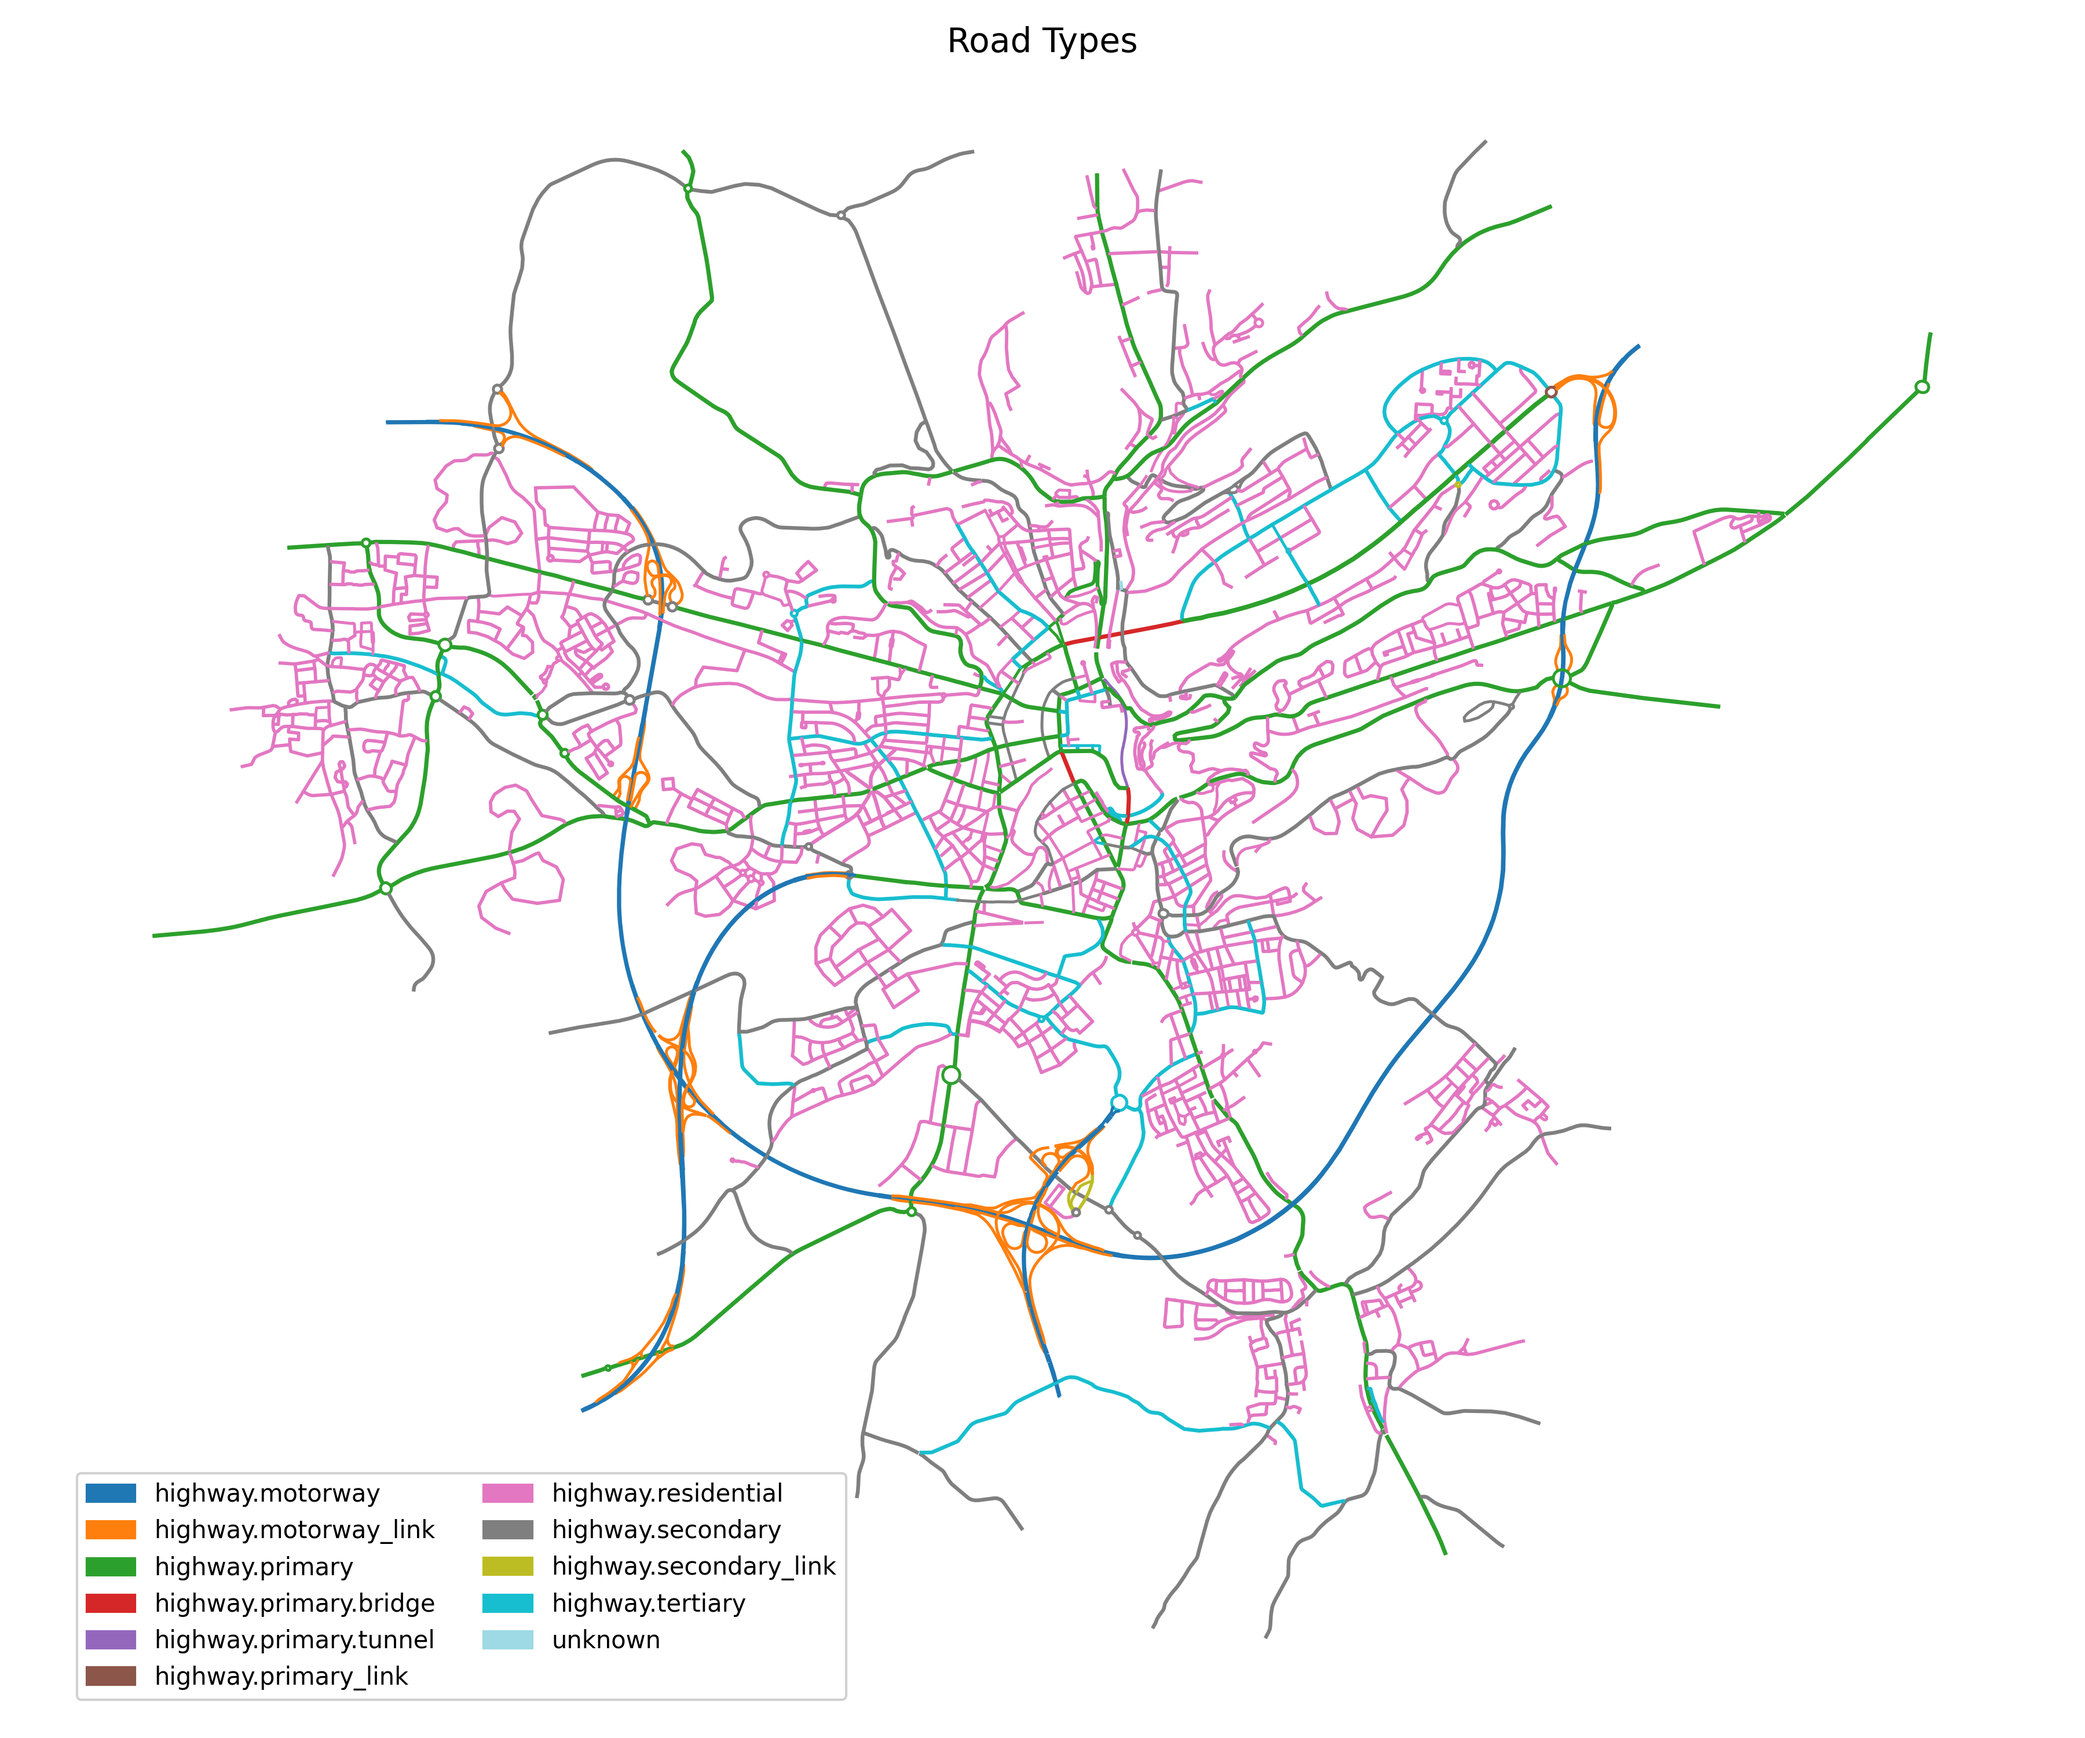
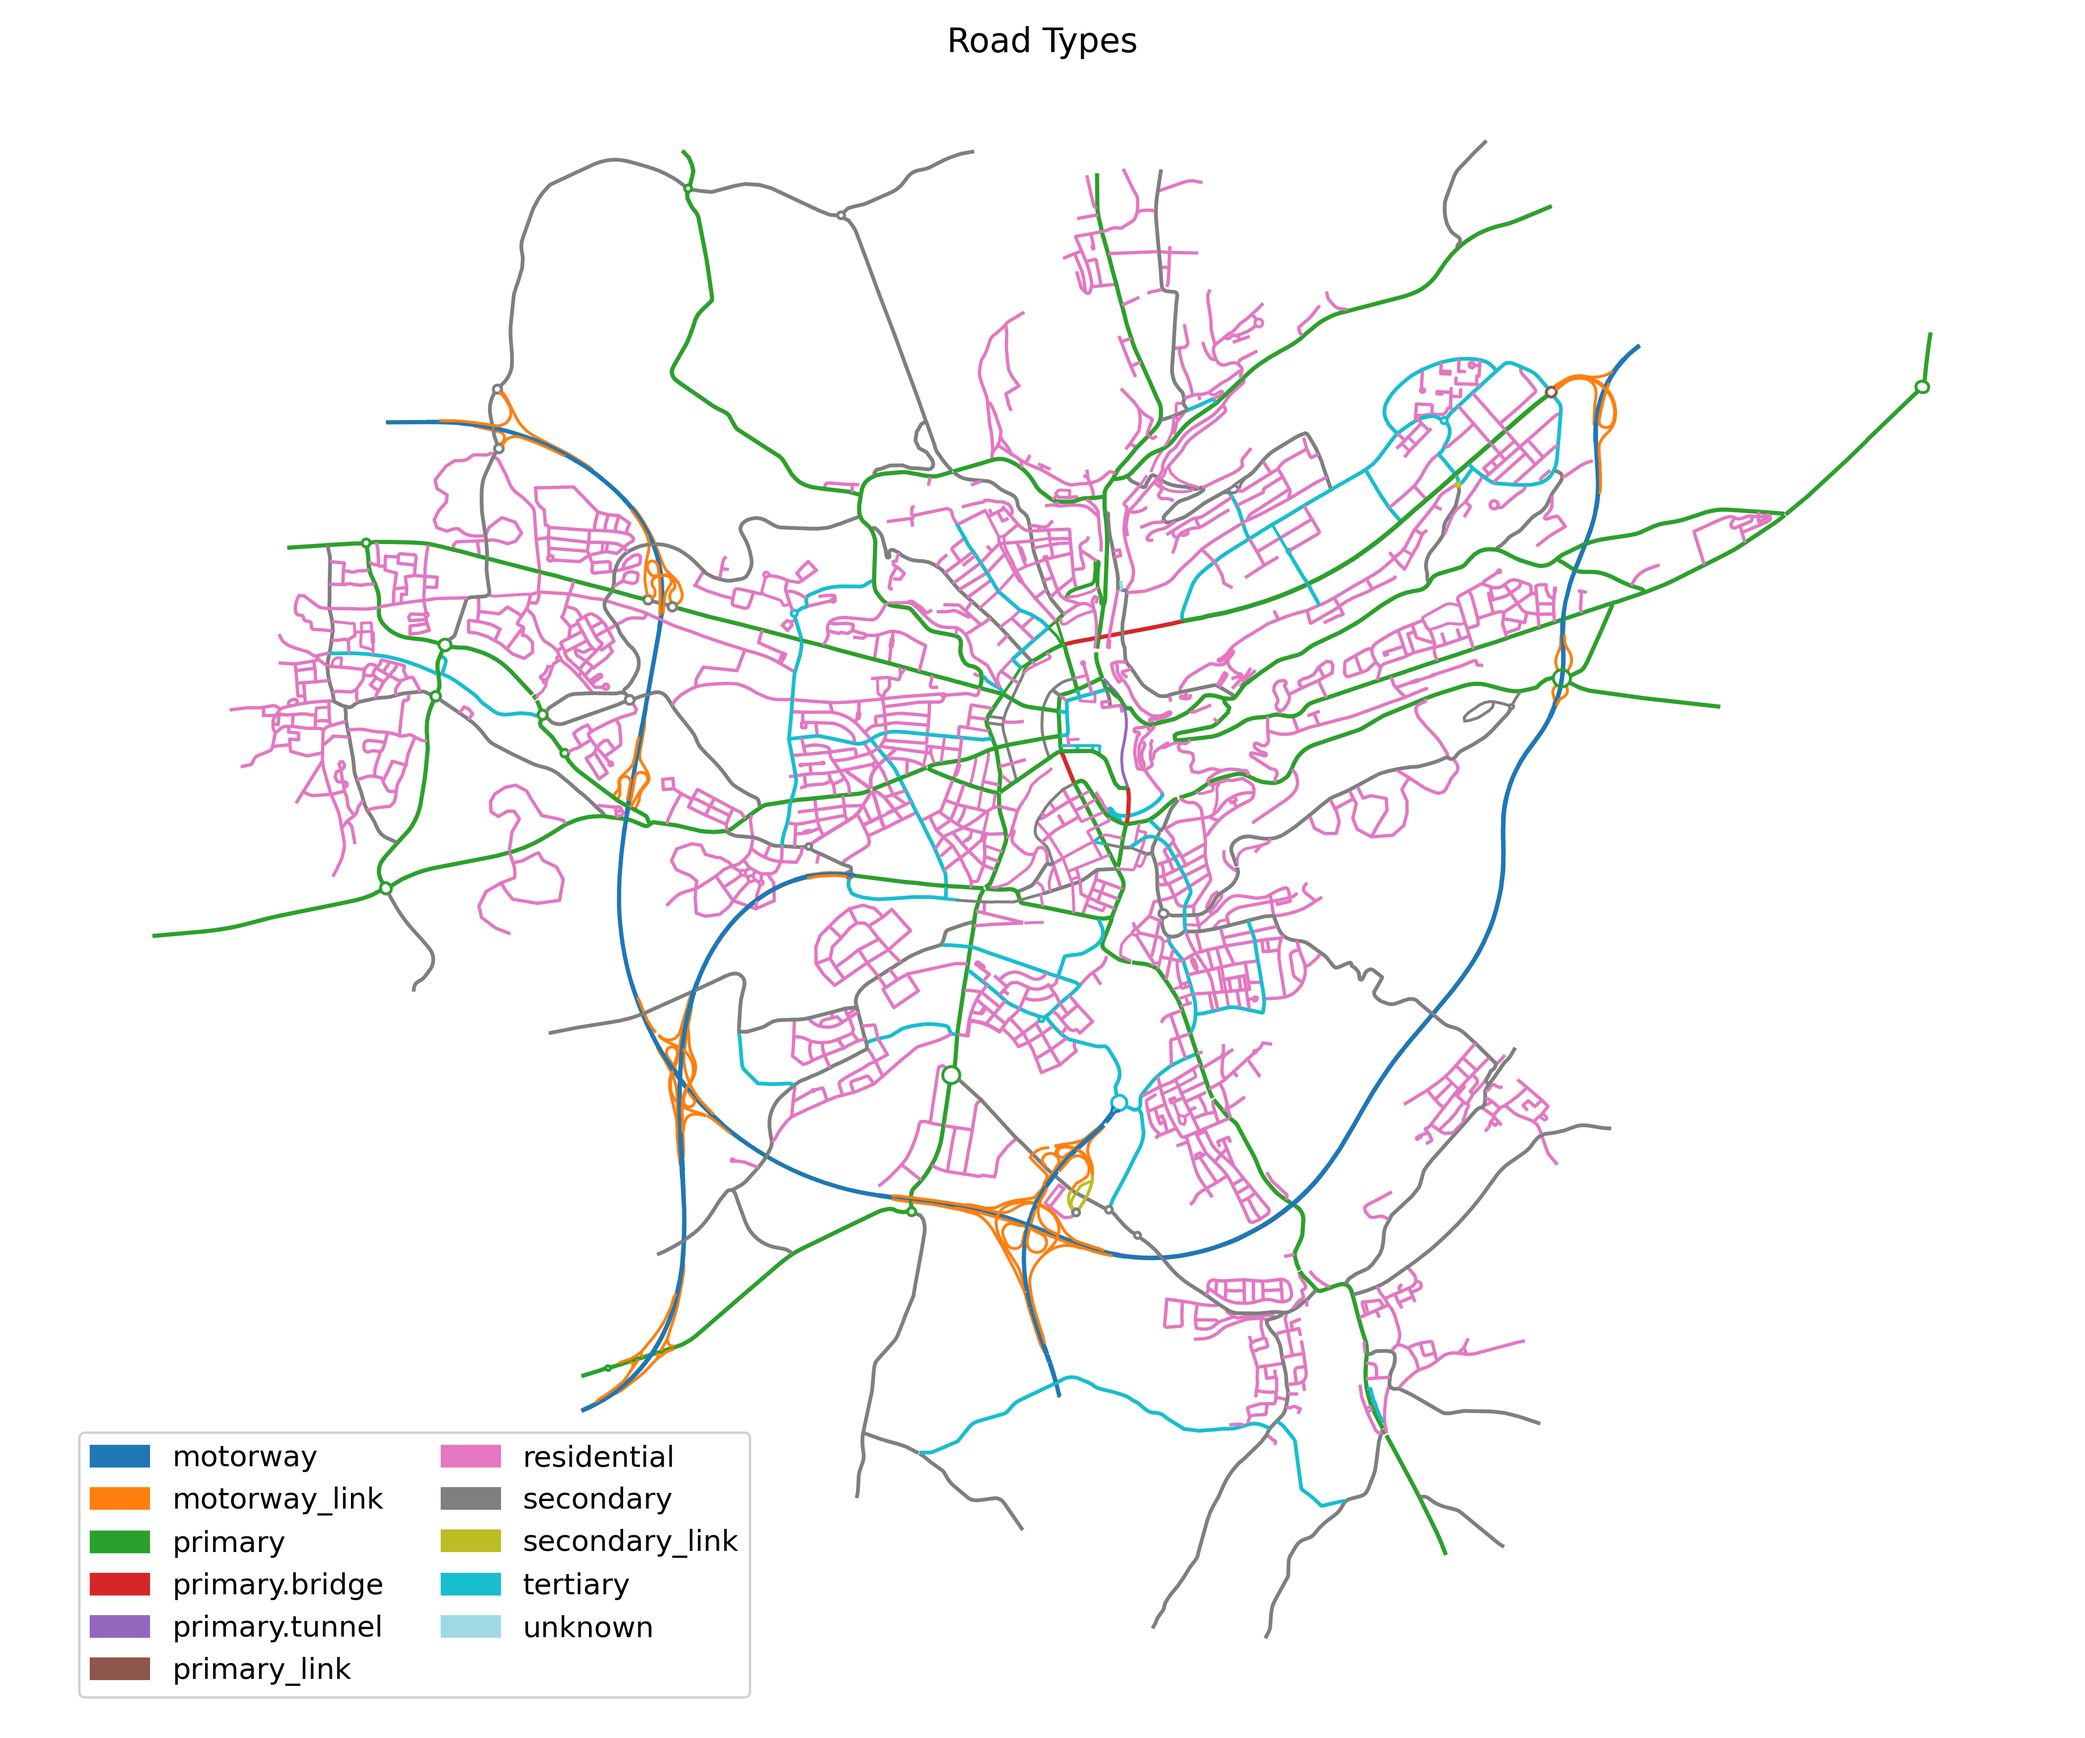
Simplify road type labels and adjust fonts
Remove the "highway." prefix from road type labels in both the map legend and bar chart x-ticks, and increase font sizes for improved readability (legend fontsize 12, x-tick fontsize 14). Updated plotting_road_types.py accordingly and regenerated the road_type_map.png and road_type_bar.png plots.

Changed region(s): [[0.0311, 0.806, 0.3733, 0.992]]

diff --git a/T4.1-KPIs/plotting_road_types.py b/T4.1-KPIs/plotting_road_types.py
@@ -28,13 +28,13 @@ def plot_map(net, edges, type_colors, filename):
         ax.plot(x, y, color=color, linewidth=1.2)
 
     legend_patches = [
-        mpatches.Patch(color=color, label=t)
+        mpatches.Patch(color=color, label=t.replace("highway.", ""))
         for t, color in sorted(type_colors.items())
     ]
     ax.legend(
         handles=legend_patches,
         loc="lower left",
-        fontsize=10,
+        fontsize=12,
         framealpha=0.9,
         ncol=2,
     )
@@ -59,8 +59,9 @@ def plot_bar(edges, type_colors, filename):
     fig, ax = plt.subplots(figsize=(12, 6))
     bars = ax.bar(range(len(labels)), values, color=colors)
 
+    clean_labels = [t.replace("highway.", "") for t in labels]
     ax.set_xticks(range(len(labels)))
-    ax.set_xticklabels(labels, rotation=45, ha="right", fontsize=8)
+    ax.set_xticklabels(clean_labels, rotation=45, ha="right", fontsize=14)
     ax.set_ylabel("Length (km)")
     ax.set_title("Road Length by Type")
 
